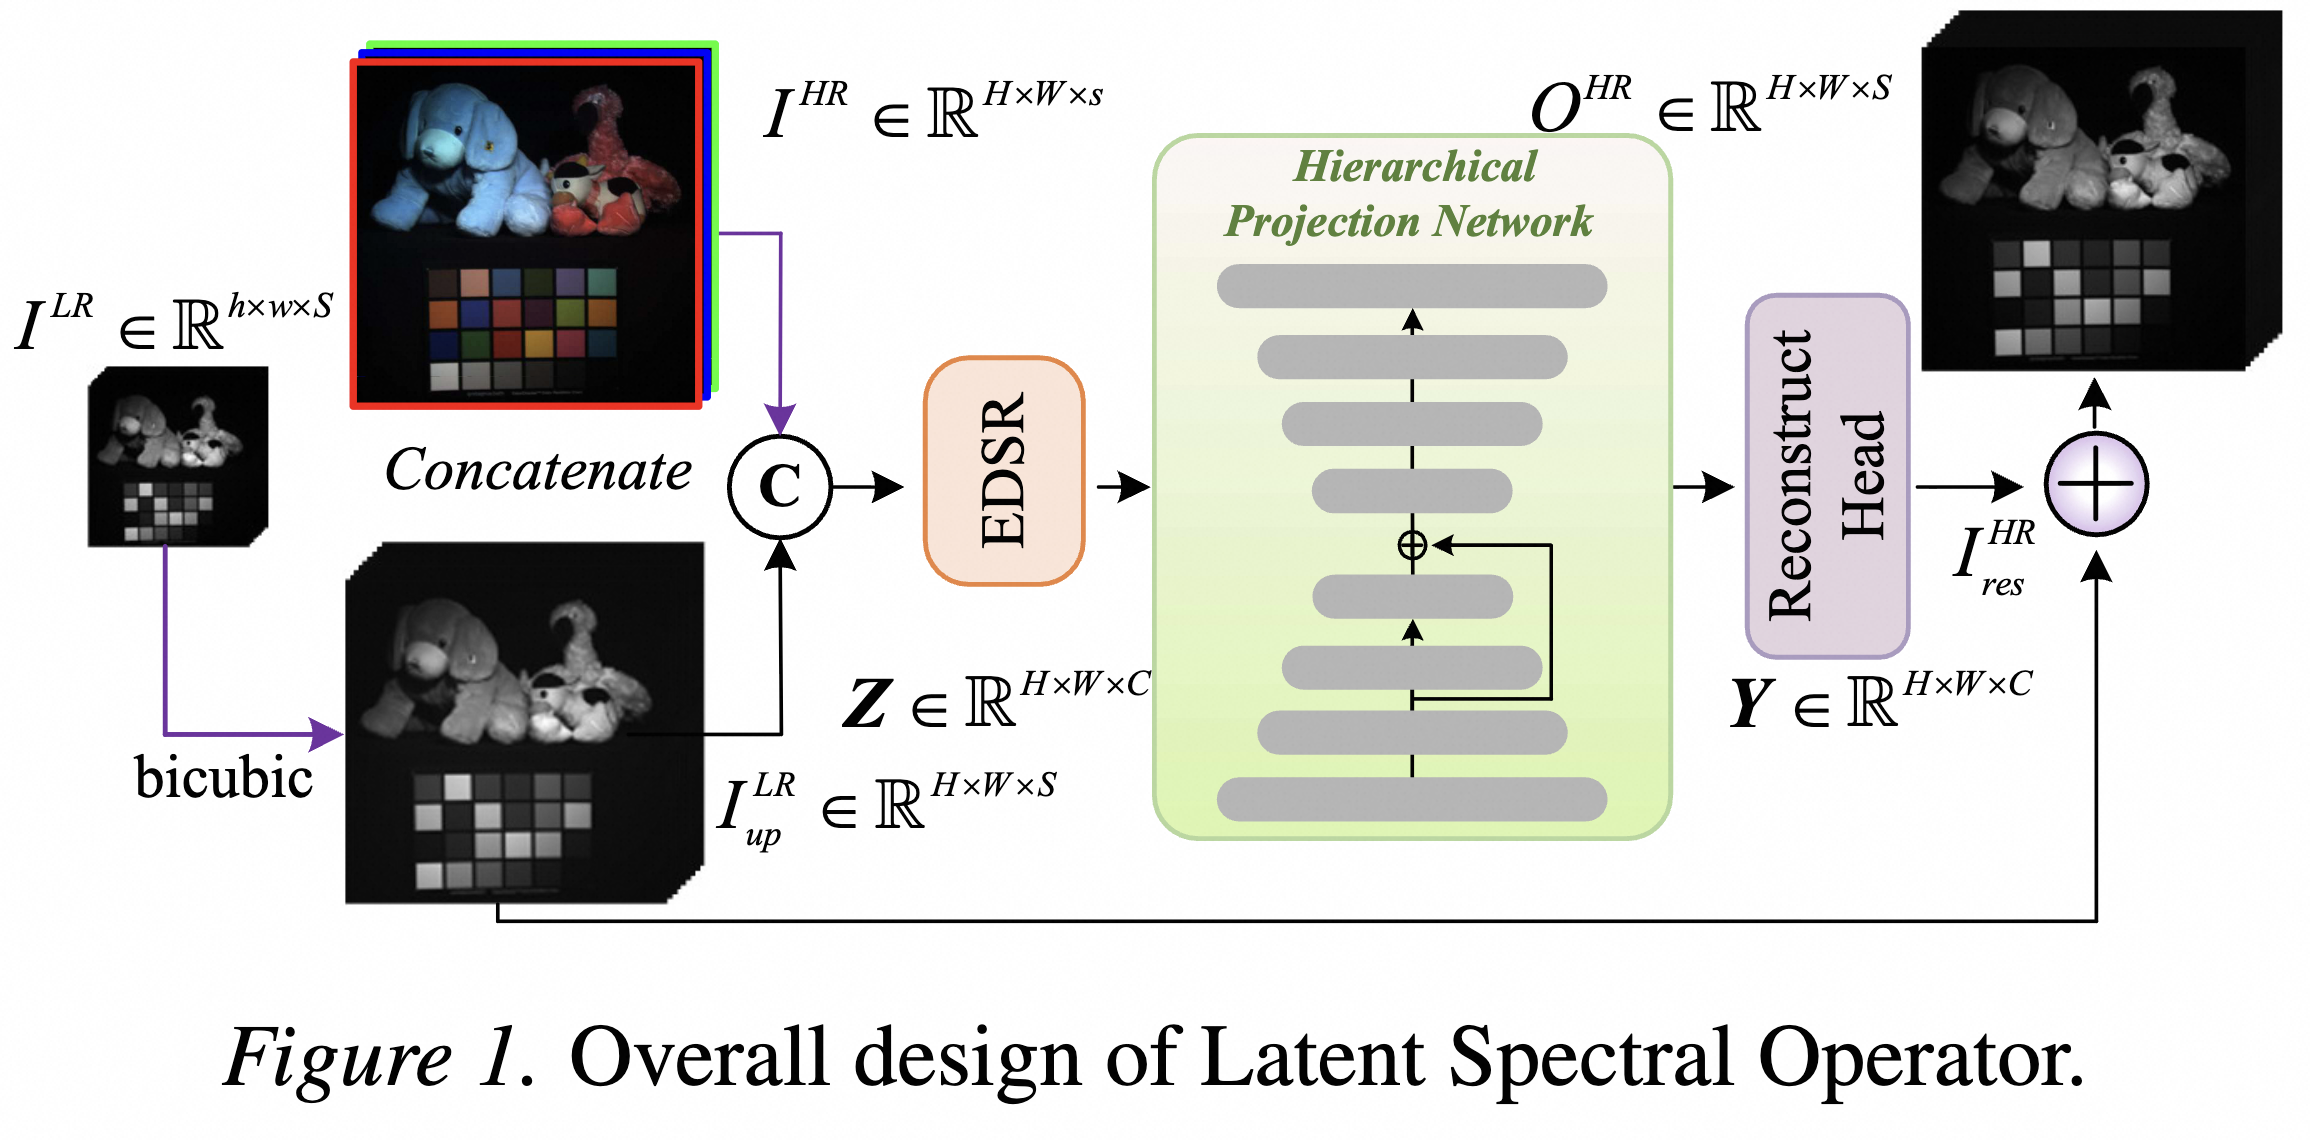
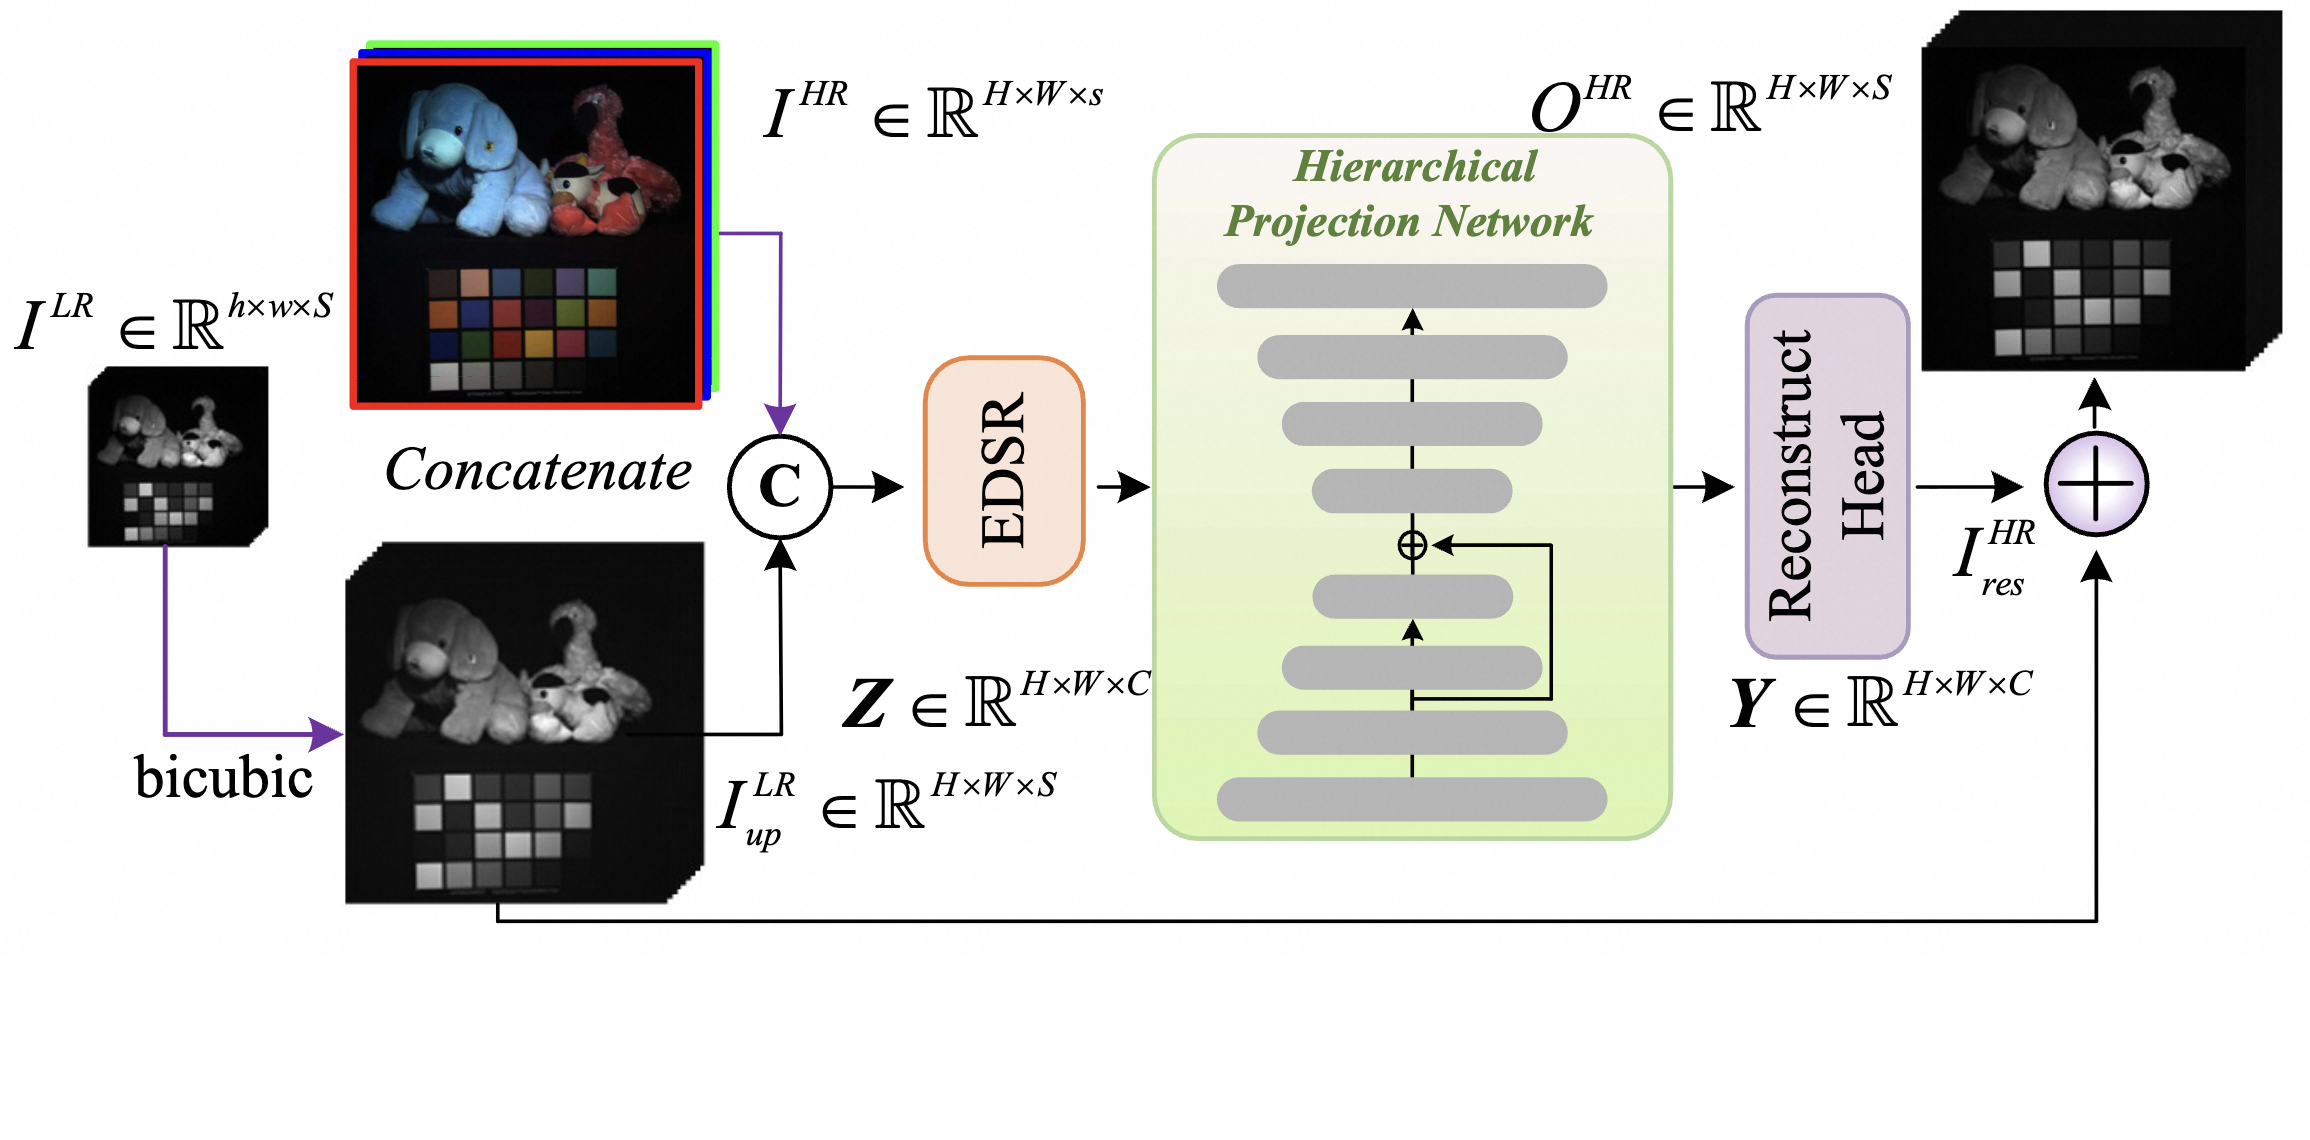
Update LSO assets and paper

Changed region(s): [[0.2494, 0.8904, 0.9039, 0.9518], [0.0935, 0.8904, 0.2182, 0.9825]]

diff --git a/README.md b/README.md
@@ -13,7 +13,7 @@ Zhejiang University of Technology
 <a href="https://weili419.github.io/latent-spectral-operators/">
   <img alt="Project Page" src="https://img.shields.io/badge/Project-Page-0F766E?style=flat-square">
 </a>
-<a href="https://weili419.github.io/latent-spectral-operators/assets/paper.pdf">
+<a href="assets/Solving_Spatial_Spectral_Fusion_with_Latent_Spectral_Operators_ICML2026_compressed_under20MB.pdf">
   <img alt="Paper" src="https://img.shields.io/badge/Paper-PDF-6D28D9?style=flat-square">
 </a>
 <a href="https://www.modelscope.cn/datasets/WeiLi419/Latent_Spectral_Operators_Cave_and_Harvard">
@@ -28,7 +28,11 @@ Zhejiang University of Technology
 <p align="center">
   <img src="assets/overall.png" alt="LSO framework" width="95%">
   <br>
+  <em>Overall design of Latent Spectral Operator.</em>
+  <br><br>
   <img src="assets/pipeline.png" alt="LSO pipeline" width="95%">
+  <br>
+  <em>Overall design of the Hierarchical Projection Network.</em>
 </p>
 
 ## Highlights